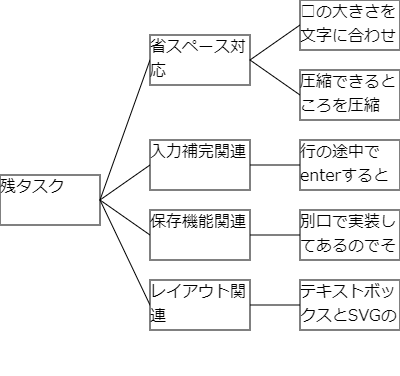
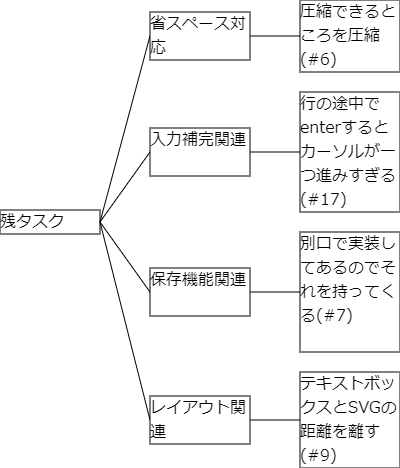
進捗状況の更新

diff --git a/README.md b/README.md
@@ -5,7 +5,6 @@ simple mind map generator works on the browser
 
 * 残タスク
   * 省スペース対応
-    * □の大きさを文字に合わせる(#5)
     * 圧縮できるところを圧縮(#6)
   * 入力補完関連
     * 行の途中でenterするとカーソルが一つ進みすぎる(#17)
@@ -13,5 +12,5 @@ simple mind map generator works on the browser
     * 別口で実装してあるのでそれを持ってくる(#7)
   * レイアウト関連  
     * テキストボックスとSVGの距離を離す(#9)
-
+    
 [![BCH compliance](https://bettercodehub.com/edge/badge/miyatsuki/js-mindmap?branch=master)](https://bettercodehub.com/)
